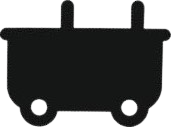
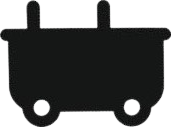
Fixed train movement and add pictures

diff --git a/roller-coaster/Main.cpp b/roller-coaster/Main.cpp
@@ -96,7 +96,7 @@ void buildTrain(std::vector<Vertex>& vertices,
     int& wagonStartIndex)
 {
     segmentCenterX.assign(WAGON_SEGMENTS, 0.0f);
-    segmentCenterY = (WAGON_Y_BOTTOM + WAGON_Y_TOP) / 2.0f;
+    segmentCenterY = WAGON_Y_BOTTOM;
     wagonStartIndex = static_cast<int>(vertices.size());
 
     // Dodajem segmente vagona jedan iza drugog
@@ -173,7 +173,7 @@ int main()
     int uTexLocation = glGetUniformLocation(basicShader, "uTex");
 
     unsigned int wagonTexture = 0;
-    preprocessTexture(wagonTexture, "res/train.png");
+    preprocessTexture(wagonTexture, "res/car.png");
 
 
     glUseProgram(basicShader);
